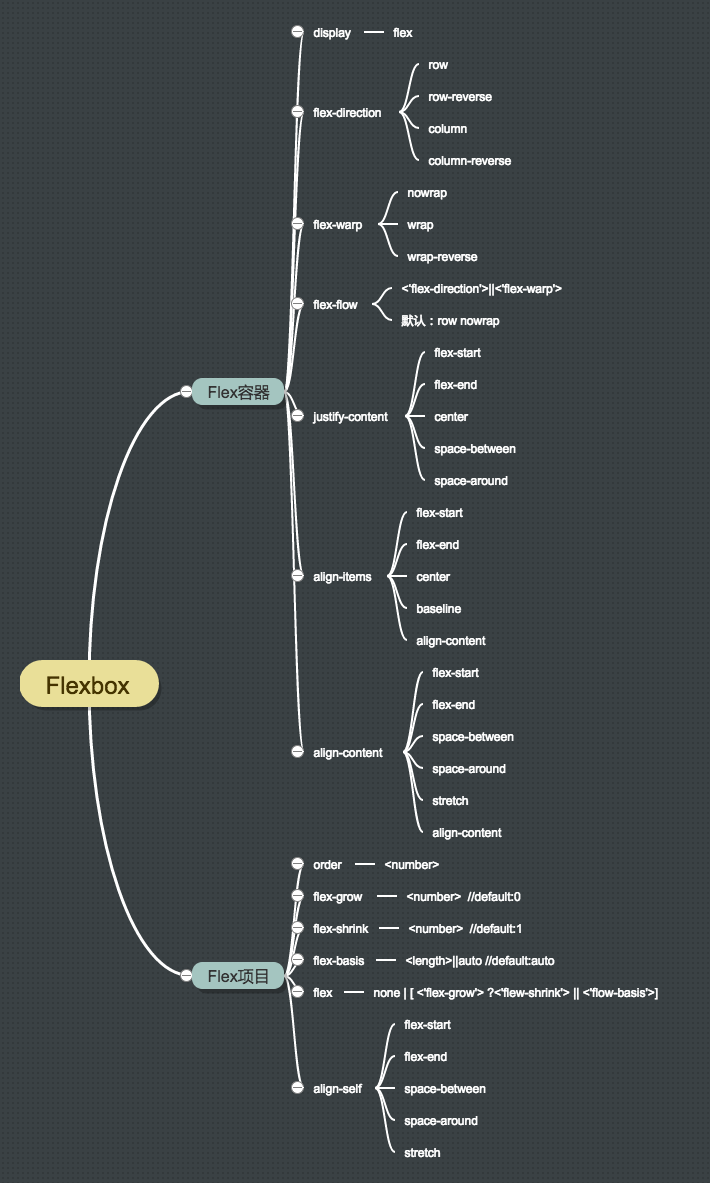
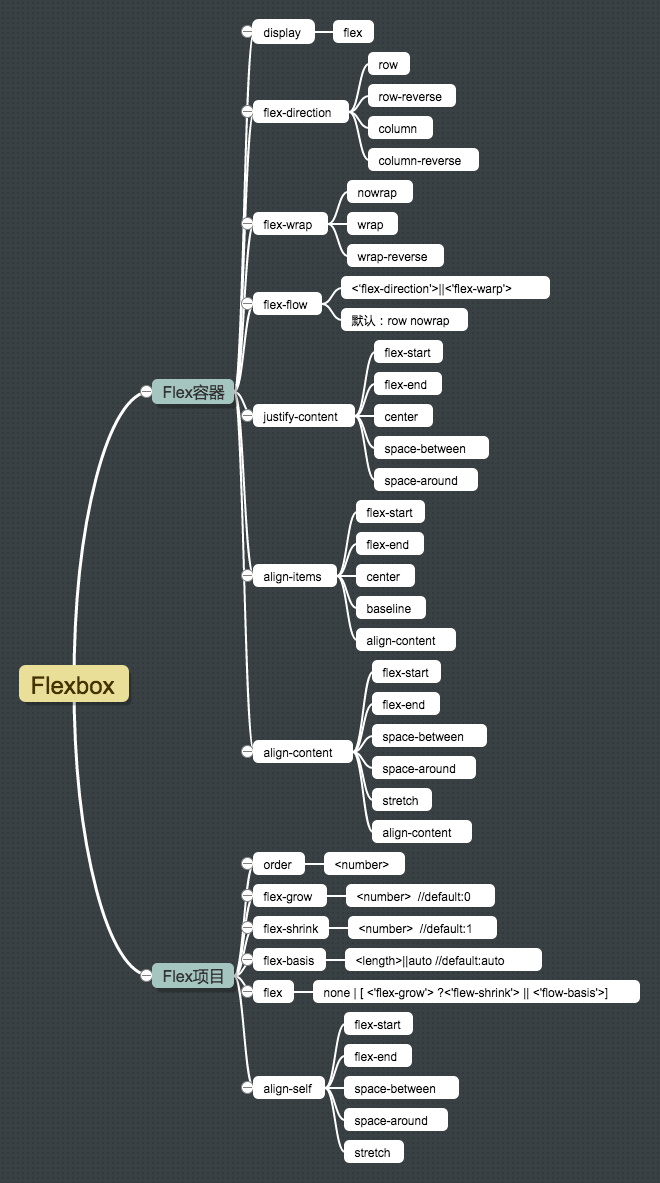
add  the post

Changed region(s): [[0.0303, 0.0, 0.9697, 1.0]]

diff --git a/_posts/2015-10-17-the-thinking-about-flexbox.md b/_posts/2015-10-17-the-thinking-about-flexbox.md
@@ -76,7 +76,7 @@ categories: Flexbox布局模式
 
 当使用了这个值以后，伸缩容器会为内容建立新的伸缩格式化上下文（FFC），它的上下文展示效果和BFC根元素相同（BFC特性：浮动不会闯入伸缩容器，且伸缩容器的边界不会与其内容边界叠加）。
 
-伸缩容器不是快容器，因此有些设计用来控制块布局的属性，在伸缩布局中不适用，特别是多栏（column)，float，clear，vertical-align这些属性。
+伸缩容器不是块容器，因此有些设计用来控制块布局的属性，在伸缩布局中不适用，特别是多栏（column)，float，clear，vertical-align这些属性。
 
 #### flex-direction
 
@@ -93,5 +93,28 @@ categories: Flexbox布局模式
 ![flex-direction](http://tw93.github.io/images/flex-direction.png)
 
 #### flex-warp
+
 「flex-wrap」属性控制伸缩容器是单行还是多行，也决定了侧轴方向（新的一行的堆放方向）。
 
+- flex-wrap:nowrap;伸缩容器单行显示，默认值；
+- flex-wrap:wrap;伸缩容器多行显示；伸缩项目每一行的排列顺序由上到下依次。
+- flex-wrap:wrap-reverse;伸缩容器多行显示，但是伸缩项目每一行的排列顺序由下到上依次排列。
+
+网页效果见图；
+
+![flex-wrap](http://tw93.github.io/images/flex-wrap.png)
+
+#### flex-flow
+
+[flex-flow]属性为flex-direction（主轴方向）和flex-wrap（侧轴方向）的缩写，两个属性决定了伸缩容器的主轴与侧轴。
+
+- flex-flow:<「flex-direction」> || <「flex-wrap」>;默认值为row  nowrap；
+
+举两个栗子：
+
+- flex-flow:row;也是默认值；主轴是行内方向，单行显示，不换行；
+- flex-flow:row-reverse wrap;主轴和行内方向相反，从右到左，项目每一行由上到下排列（侧轴）。
+
+网页效果如下：
+
+![flex-flow](http://tw93.github.io/images/flex-flow.png)
